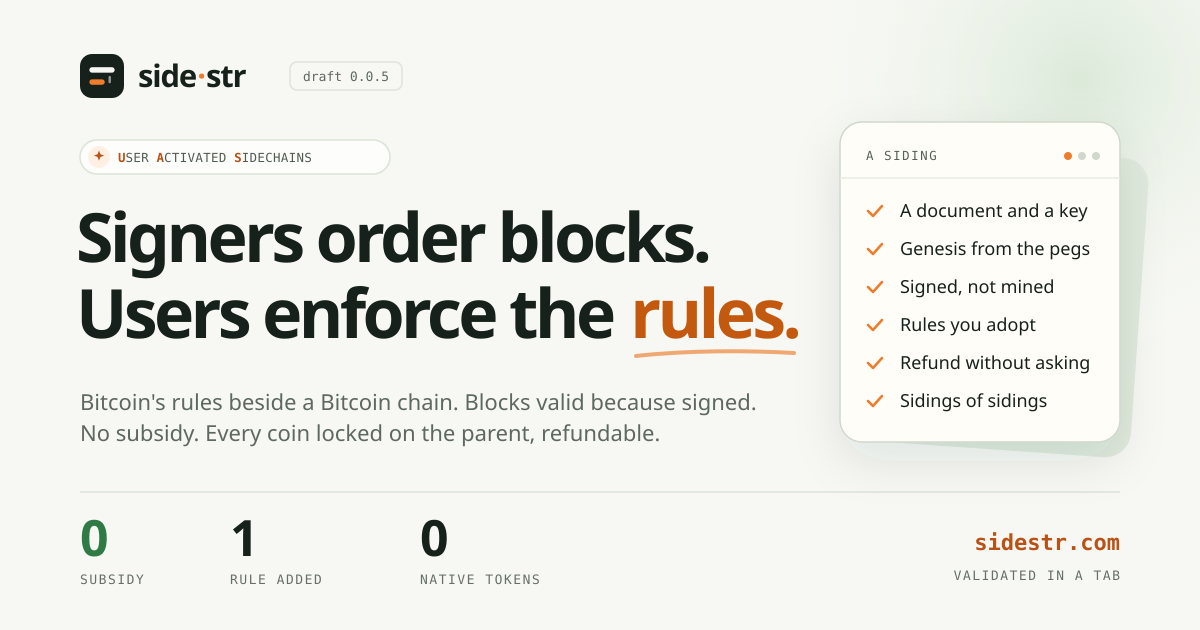
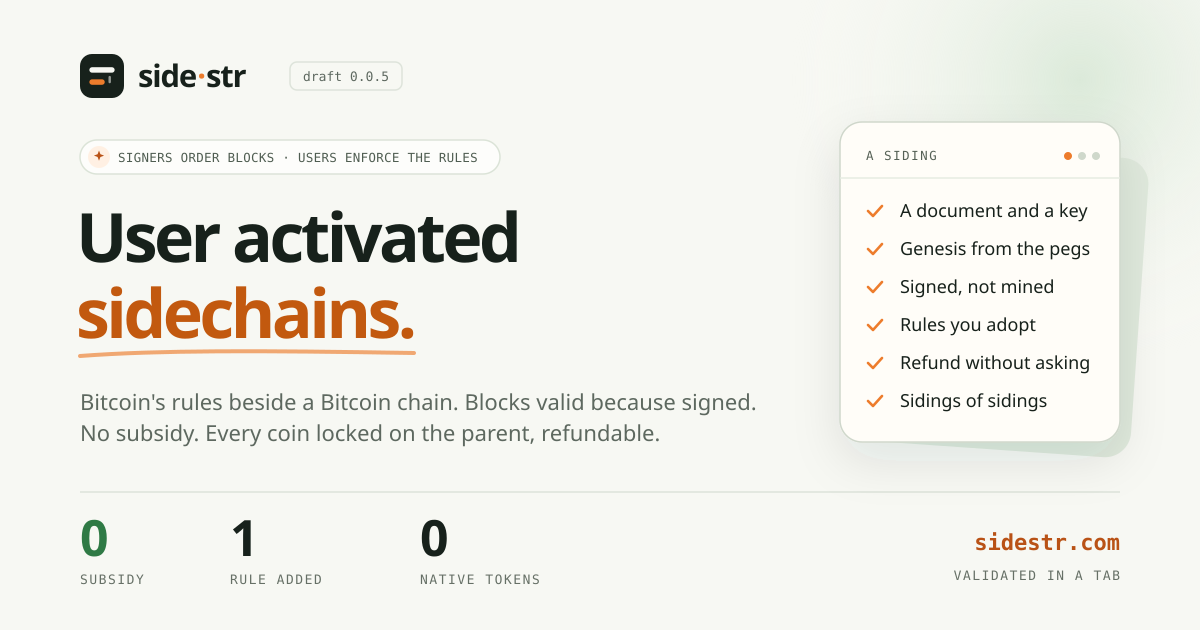
OG card: headline User activated sidechains, slogan as the label

Changed region(s): [[0.0617, 0.3317, 0.6783, 0.573], [0.0925, 0.2413, 0.4008, 0.2714]]

diff --git a/index.html b/index.html
@@ -12,14 +12,14 @@
 <meta property="og:description" content="User activated sidechains beside Bitcoin, stock or its BLAKE2b fork. Signers order blocks; users enforce the rules: signed blocks, no subsidy, pegged coins, rules as documents.">
 <meta property="og:type" content="website">
 <meta property="og:url" content="https://sidestr.com/">
-<meta property="og:image" content="https://sidestr.com/og.png?v=3">
+<meta property="og:image" content="https://sidestr.com/og.png?v=4">
 <meta property="og:image:width" content="1200">
 <meta property="og:image:height" content="630">
-<meta property="og:image:alt" content="sidestr: signers order blocks, users enforce the rules">
+<meta property="og:image:alt" content="sidestr: user activated sidechains. Signers order blocks, users enforce the rules">
 <meta name="twitter:card" content="summary_large_image">
 <meta name="twitter:title" content="sidestr — user activated sidechains">
 <meta name="twitter:description" content="User activated sidechains beside Bitcoin, stock or its BLAKE2b fork. Signers order blocks; users enforce the rules.">
-<meta name="twitter:image" content="https://sidestr.com/og.png?v=3">
+<meta name="twitter:image" content="https://sidestr.com/og.png?v=4">
 <style>
   :root{
     --bg:#f7f8f3;--surface:#fff;--surface-warm:#fffdf8;--ink:#17211b;--muted:#5d685f;--soft:#667066;
